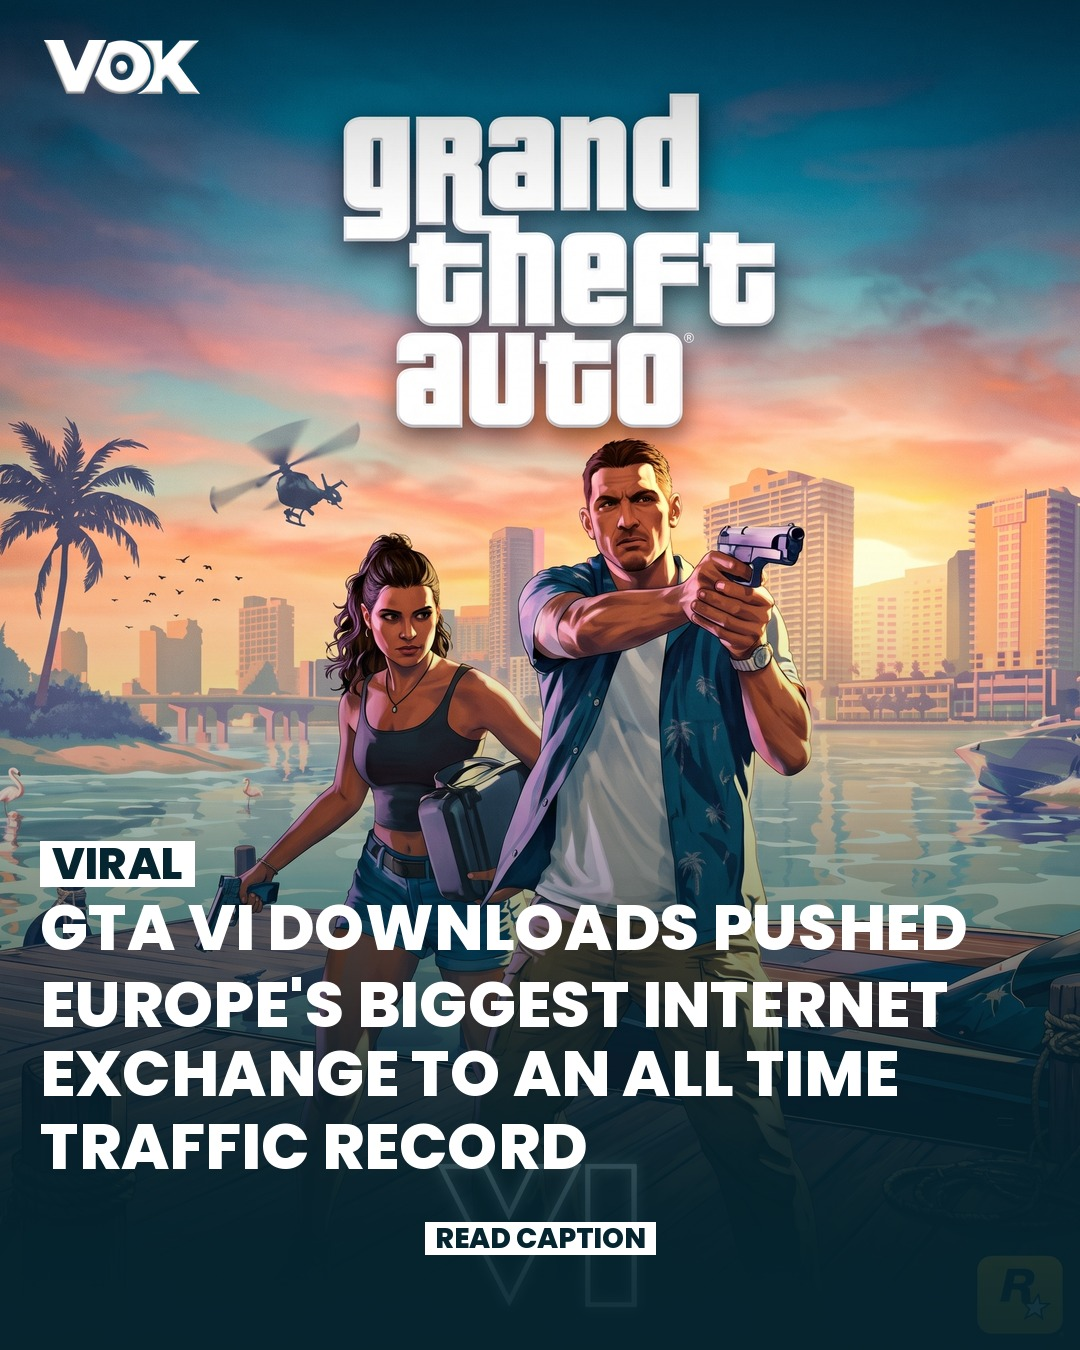
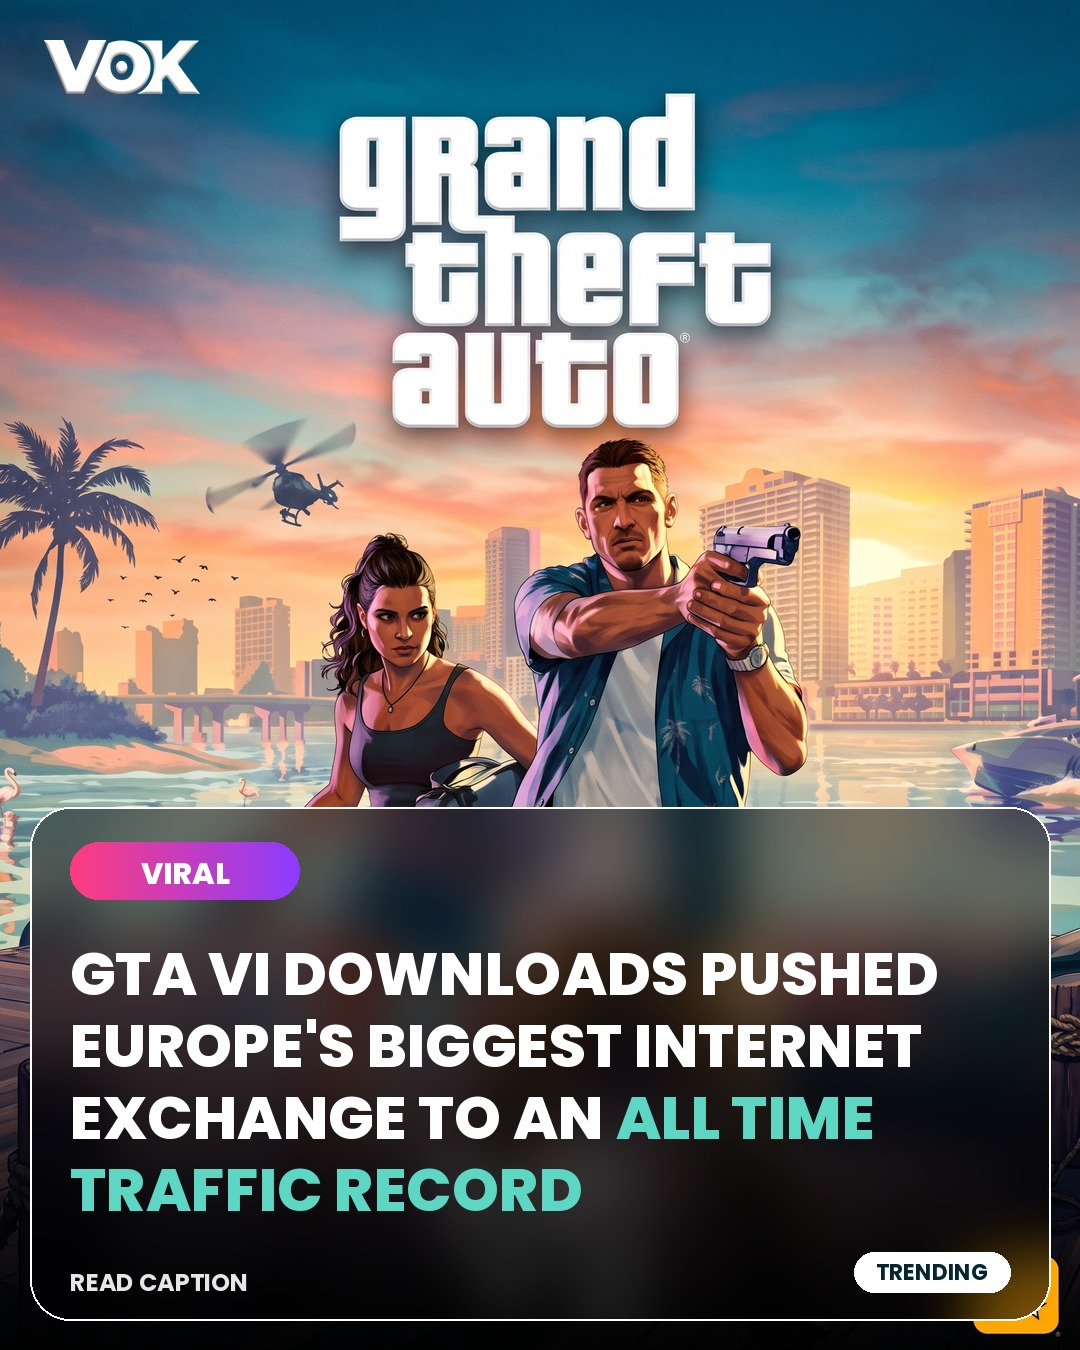
Review fixes: 4 mismatched photos replaced by headline cards, balanced even lines on cards and viral, face-safe crop, stricter photo check (no paintings / wrong country)
Claude-Session: https://claude.ai/code/session_01QCrJEZeKbDG7a8nB2oQVuB

diff --git a/vok/render.py b/vok/render.py
@@ -111,6 +111,11 @@ def smart_crop(img: Image.Image, focus: tuple[float, float] | None = None) -> Im
     img = img.convert("RGB")
     sx, sy = _subject(img) if focus is None else focus
     scale = max(W / img.width, H / img.height)
+    # a face low in the photo would sit behind the headline: zoom in (max 1.7x) so the
+    # crop can move down and keep the face in the clear top part of the post
+    if sy < 0.98:
+        need = H * (1 - FOCUS_Y) / ((1 - sy) * img.height)
+        scale = min(max(scale, need), scale * 1.7)
     nw, nh = round(img.width * scale), round(img.height * scale)
     img = img.resize((nw, nh), Image.LANCZOS)
     left = max(0, min(round(sx * nw - W / 2), nw - W))
@@ -279,13 +284,30 @@ def _wrap_hl(ws, f, max_w):
 
 
 def _fit_hl(ws, max_w, sizes, max_lines):
+    """Biggest size whose lines are EVEN (same balancing as the news template), with
+    the highlight flags carried onto each word."""
+    words = [w for w, _ in ws]
+    best = None
     for size in sizes:
         f = font(800, size)
-        lines = _wrap_hl(ws, f, max_w)
-        if len(lines) <= max_lines:
-            return f, lines
-    f = font(800, sizes[-1])
-    return f, _wrap_hl(ws, f, max_w)
+        for n in range(2, max_lines + 1):
+            r = _balanced_lines(words, f, max_w, n)
+            if not r:
+                continue
+            lines, rag = r
+            cost = rag + (sizes[0] - size) * 0.03 + (n - 2) * 0.02
+            if best is None or cost < best[0]:
+                best = (cost, f, lines)
+    if best is None:
+        f = font(800, sizes[-1])
+        return f, _wrap_hl(ws, f, max_w)
+    _, f, lines = best
+    out, i = [], 0
+    for line in lines:
+        k = len(line.split())
+        out.append(ws[i:i + k])
+        i += k
+    return f, out
 
 
 def _draw_hl(d, lines, f, x, y, lh, color):

diff --git a/vok/write.py b/vok/write.py
@@ -222,6 +222,9 @@ Reject the photo (ok=false) if ANY of these is true:
 - the scene does not match the story (e.g. a petrol station for a bus crash, a mountain for a
   military story, soldiers of another country, a random building)
 - it is a screenshot, a social media post, a chart, a graph, an infographic or a document
+- it is a painting, drawing, woodblock print, illustration, artwork or an old historical image
+  (a news story needs a real modern photo, unless the story itself is about that artwork)
+- it shows a different country's leader, flags or ceremony than the story is about
 - it contains offensive words, swear words or hateful text
 - the mood is wrong for the story: a celebration, rally, victory pose, smiling or cheering
   photo on a story about a raid, arrest, accusation, scandal, lawsuit, deaths, war, attack,
